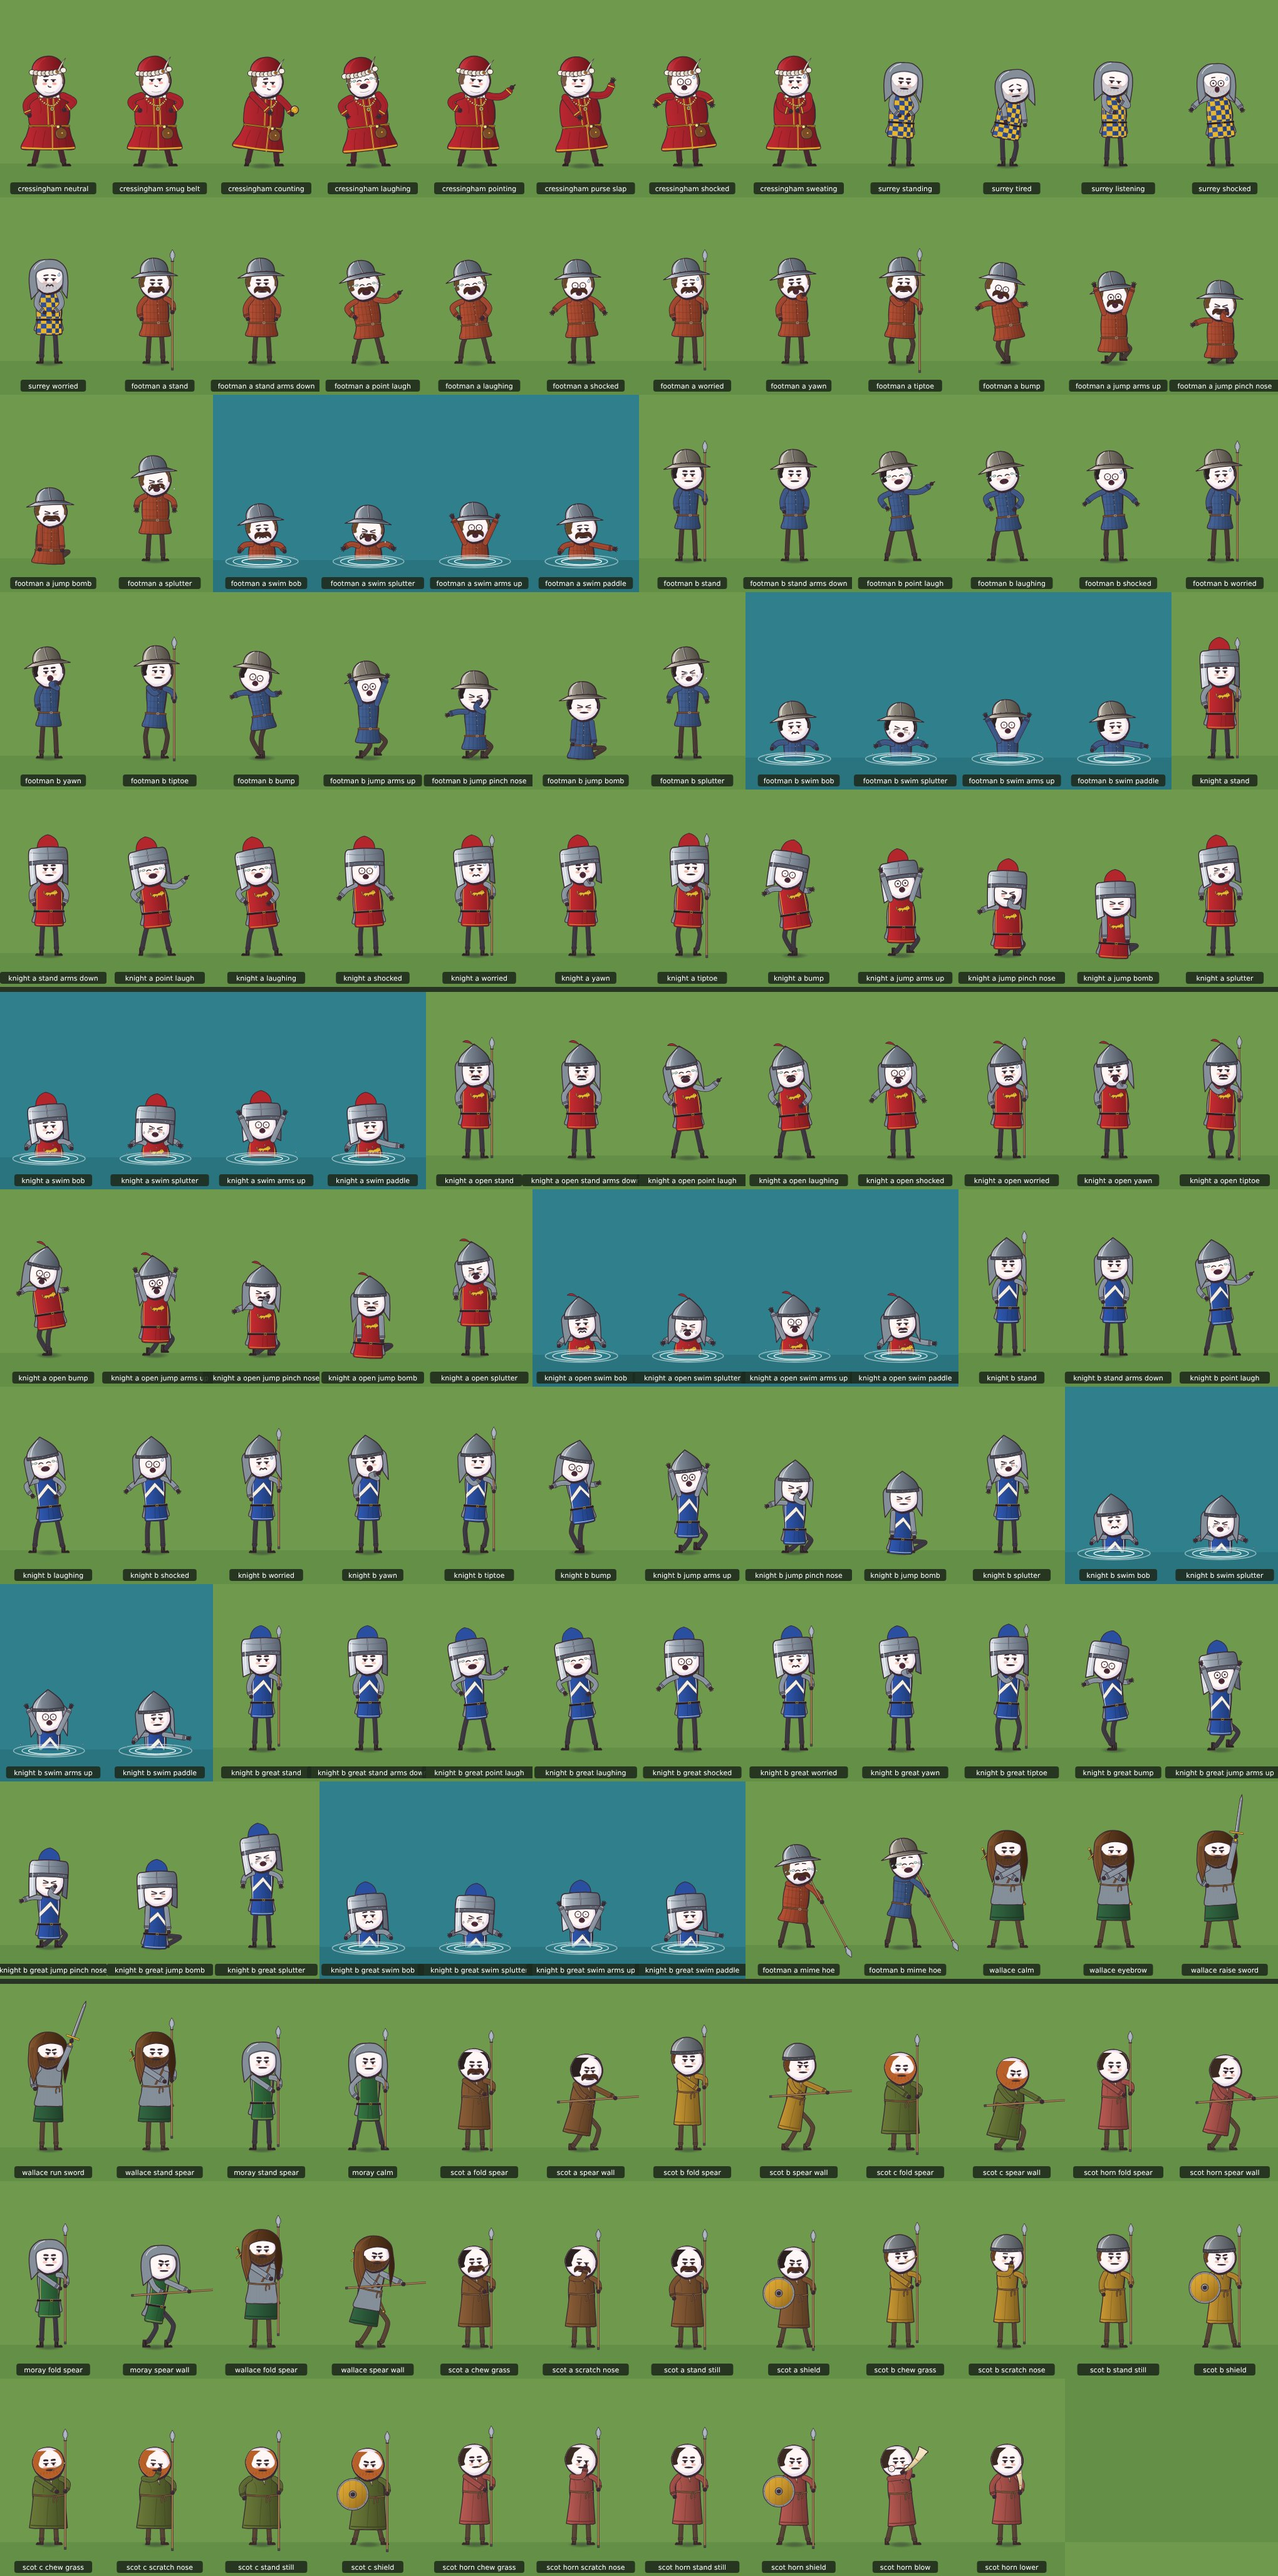
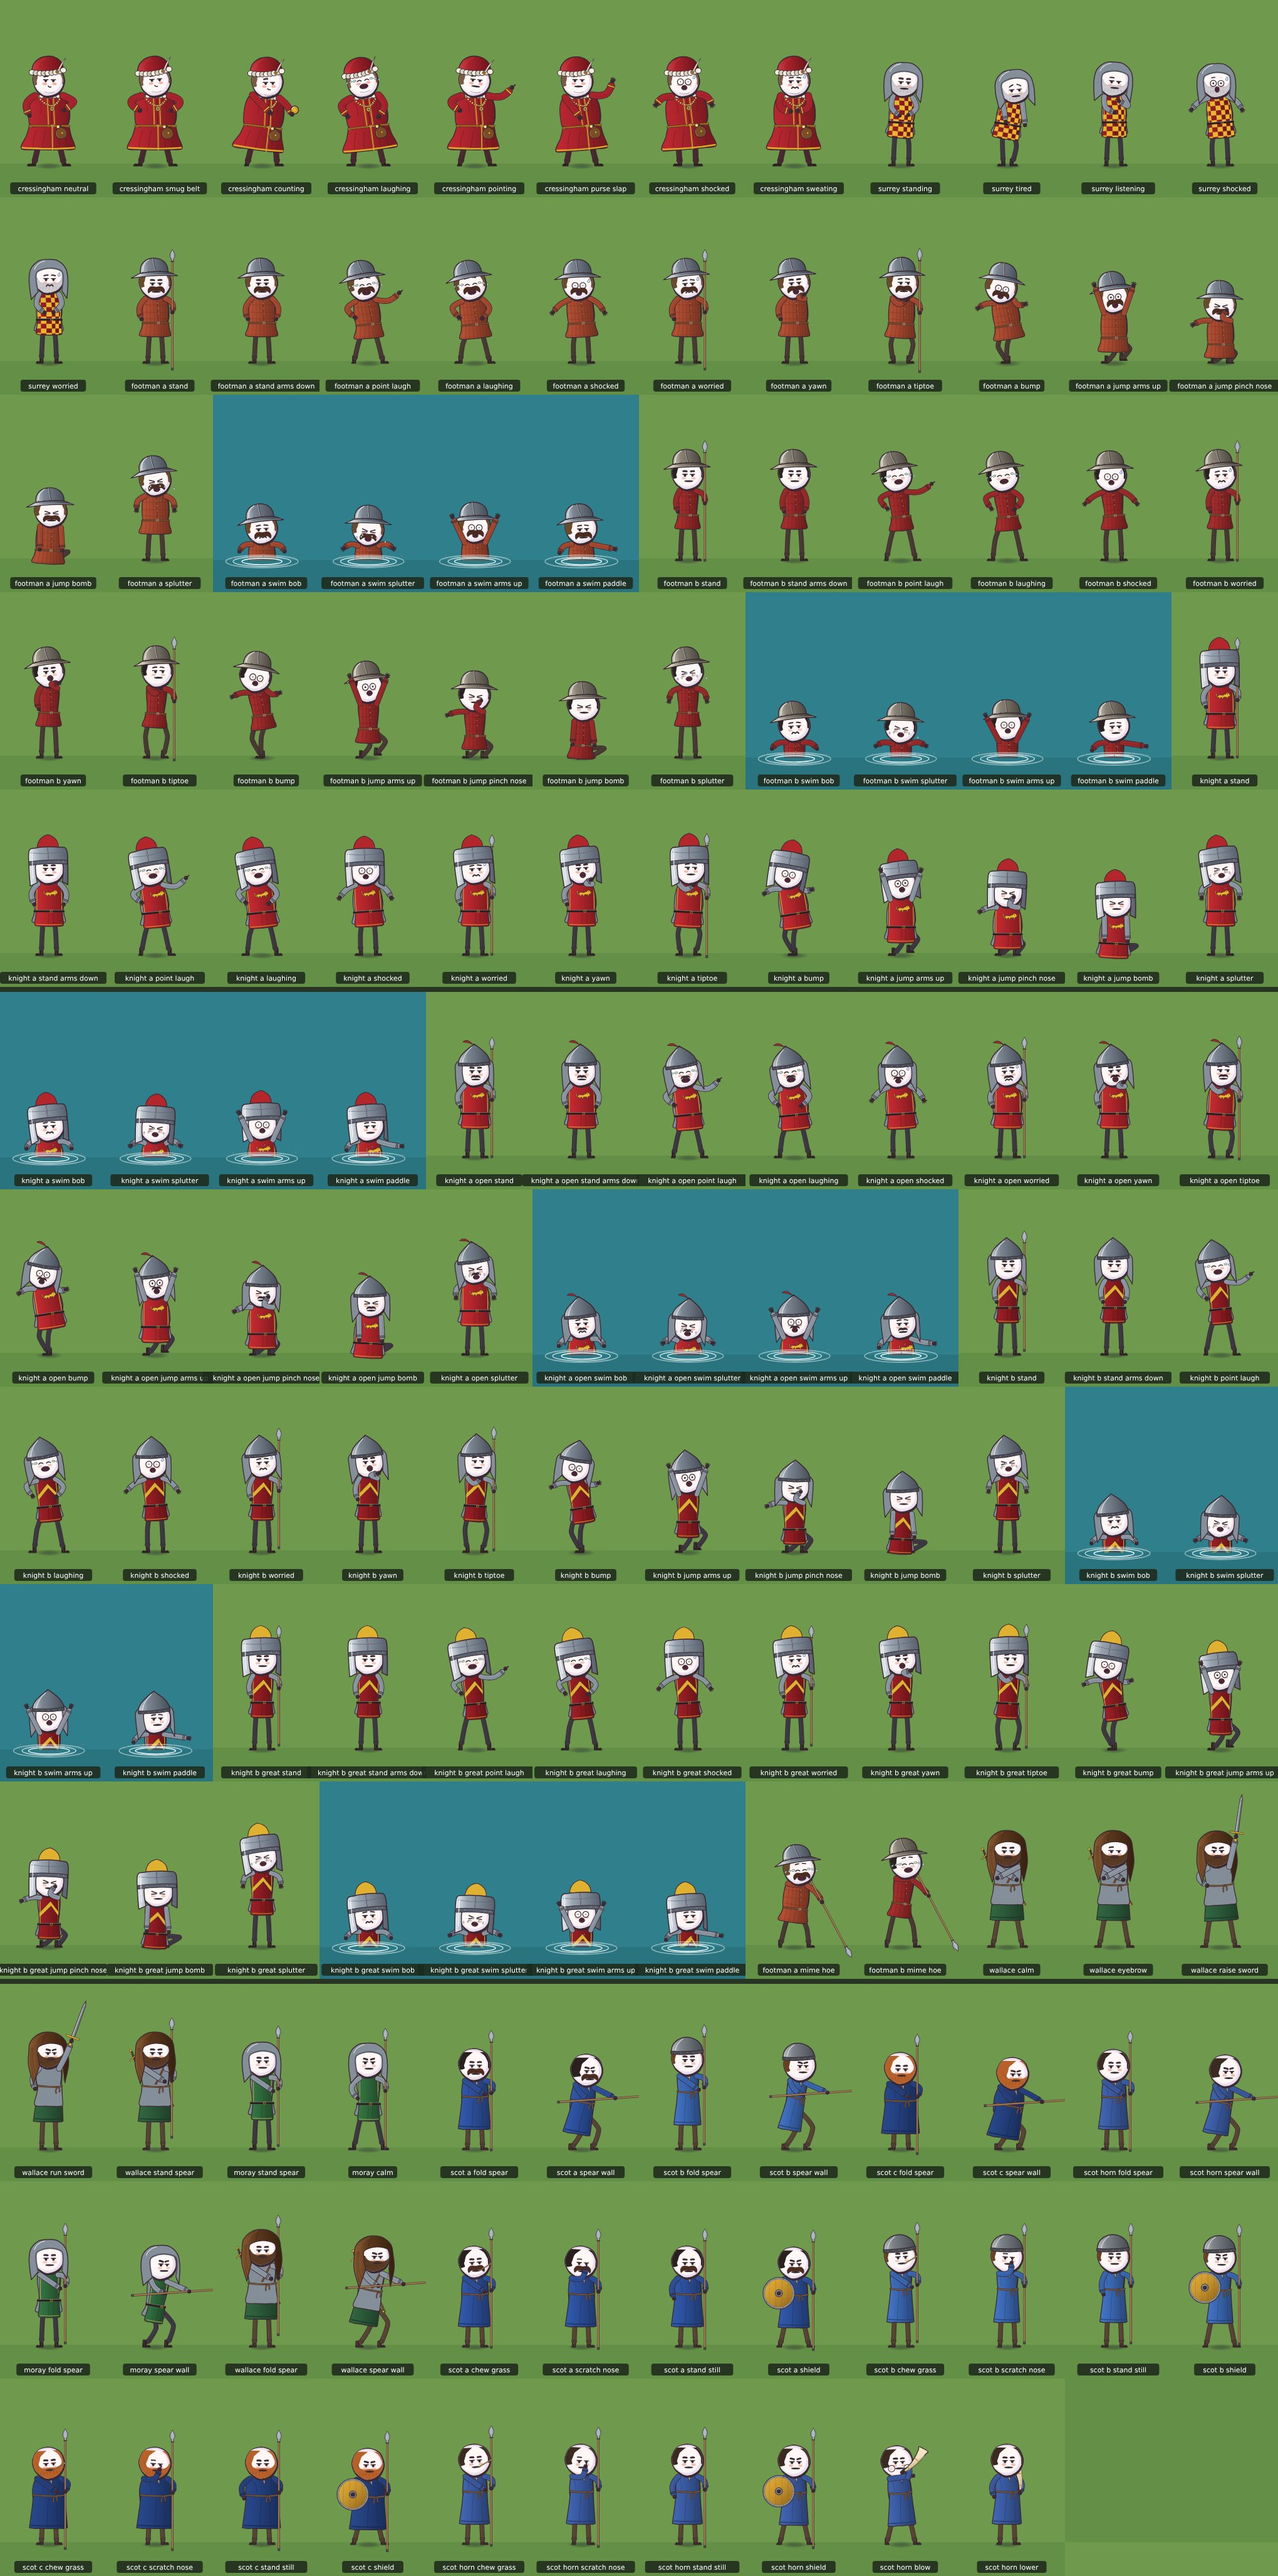
film21: cast21 colour story: all English crimson/gold (knight_b, footman_b, Surrey, plumes, caparisons), all Scots saltire blue; gate reports C/H1/J2/H2b
Claude-Session: https://claude.ai/code/session_017iwyCsej5sN2YnHCfQQb4Y

diff --git a/film/v3/cast21/cast21.py b/film/v3/cast21/cast21.py
@@ -783,10 +783,10 @@ def _norm(C, pose):
 _BOOT = dict(color="#3a2c22", cuff="#4a3a2c", h=0.20, toe=0.14)
 GREAT = dict(light="#e4e8ee", base="#9aa4b0", dark="#5a6270", shine="#ffffff")
 GREAT_RED = dict(GREAT, plume="#b3262c")
-GREAT_BLUE = dict(GREAT, plume="#2a4fa0")
+GREAT_BLUE = dict(GREAT, plume="#e0b030")   # 2026-11-20: English = crimson/gold only (blue = Scots)
 KETTLE = dict(light="#c8ccd2", base="#7c8692", dark="#464e58", shine="#f0f2f4")
 IRONCAP = dict(light="#b8bcc0", base="#7c8288", dark="#464c52", shine="#e8eaec")
-ENGLISH_RED, ENGLISH_BLUE = "#b3262c", "#2a4fa0"
+ENGLISH_RED, ENGLISH_BLUE = "#b3262c", "#8e1c22"   # ENGLISH_BLUE is now a dark crimson (name kept for compatibility)
 
 
 def _knight(seed, build, tw, th, leg, shoulder, sur, helm, hair, skin_cheek, beard=None, moustache=False, limb=0.062):
@@ -808,8 +808,8 @@ def _knight(seed, build, tw, th, leg, shoulder, sur, helm, hair, skin_cheek, bea
 
 
 SUR_LION = dict(pattern="lion", colors=dict(base=ENGLISH_RED, alt=GOLD["base"], trim=GOLD["base"], neck="#5d6672", belt="#2a1c18"))
-SUR_CHEV = dict(pattern="chevron", colors=dict(base=ENGLISH_BLUE, alt="#f2eee4", trim="#f2eee4", neck="#5d6672", belt="#2a1c18"))
-SUR_CHEQ = dict(pattern="chequy", tabard_w=0.92, colors=dict(base="#2f4f98", alt="#e8b52e", trim="#e8b52e", neck="#5d6672", belt="#2a1c18"))
+SUR_CHEV = dict(pattern="chevron", colors=dict(base=ENGLISH_BLUE, alt="#e0b030", trim="#e0b030", neck="#5d6672", belt="#2a1c18"))
+SUR_CHEQ = dict(pattern="chequy", tabard_w=0.92, colors=dict(base="#8e1c22", alt="#e8b52e", trim="#e8b52e", neck="#5d6672", belt="#2a1c18"))
 
 NEW_CAST21 = {
     # William Cressingham, the treasurer: stout, ruddy, clean-shaven double chin, crimson robe with gold trim, fur-trimmed cap,
@@ -864,7 +864,7 @@ def _footman(seed, build, tw, th, leg, shoulder, gamb, hat, hair, cheeks, mousta
     return d
 
 
-GAMBS = ("#a4482f", "#b8862e", "#3f5a8a", "#7a4a6a", "#6a6a3a")     # russet, ochre, indigo, plum, olive: mid-dark, none equals the teal
+GAMBS = ("#a4482f", "#b8862e", "#9a2a2a", "#7a2a2a", "#6a6a3a")   # 2026-11-20: indigo/plum -> crimsons (blue = Scots only)     # russet, ochre, indigo, plum, olive: mid-dark, none equals the teal
 NEW_CAST21.update({
     "footman_a": _footman(21.5, "regular", 0.92, 1.00, 1.18, (0.34, 0.47), GAMBS[0], KETTLE, dict(color="#6a4a2a", front=0.08, grow=0.18), "#e8907a",
                           moustache="bushy", limb=0.064),
@@ -894,7 +894,7 @@ def _scot(seed, build, tw, th, leg, shoulder, tunic, hat, hair, cheeks, moustach
 
 
 BARE = dict(light="#000000", base="#000000", dark="#000000")
-TUNICS = dict(brown="#7a5230", ochre="#b0842c", moss="#5e6b32", red="#a24f48")
+TUNICS = dict(brown="#2c4f9a", ochre="#3a66b0", moss="#24407e", red="#3a5aa0")   # 2026-11-20: Scots = saltire BLUE family (keys kept); English = crimson/gold
 NEW_CAST21.update({
     # Wallace: tall, strong, long brown hair, short beard, mail shirt over a dark-green tunic, a long sword on his back
     "wallace": dict(
@@ -1219,7 +1219,7 @@ def horse_pose(phase=0.0, mode="walk", cap="red", **kw):
 HORSE_KEYS = ("horse",)
 MOUNTED = {"%s_mtd" % n: n for n in ("knight_a", "knight_a_open", "knight_b", "knight_b_great", "surrey", "moray")}
 SPECIAL21 = HORSE_KEYS + ("helmet_float",) + tuple(MOUNTED)
-DEFAULT_CAP = {"knight_a": "red", "knight_a_open": "red", "knight_b": "blue", "knight_b_great": "blue", "surrey": "gold", "moray": "plain"}
+DEFAULT_CAP = {"knight_a": "red", "knight_a_open": "red", "knight_b": "gold", "knight_b_great": "gold", "surrey": "gold", "moray": "plain"}
 RIDER_KEYS = ("gait", "mode21", "horse21", "ride21")
 
 

diff --git a/film/film21/gate/sH1/QA_TECH.md b/film/film21/gate/sH1/QA_TECH.md
@@ -1,0 +1,14 @@
+# QA-tech sH1 (g1239-1345, 110 frames, 720x1280) - TAKE gate
+Checked: 6 fps frames, first/last 4 frames, full-size stills at n=70/77/84/95/109. Colour-only items waived. Rim light noted.
+
+## Verdict: FAIL
+
+OK: the ride behind 4-5 running Scots (spears forward, gorse past, shake) reads well, then the overtake and the swoop down to the bridge mouth; ends at P_NECK on n109 (g1347 incl. handles); the English are crimson; feet have shadows; no blur/DOF; no bloodshed; no mouths moving in a quote window (narration only).
+
+## Issues
+1. g~1316 (n~77, "ปิดหัวสะพาน" 43.78): NO readable slam. The Scots line at the bridge mouth is far and tiny (about 5 percent of frame height), a row of heads in brown/green/orange with horizontal spears, with no motion beat at n77-84 and no dust. The viewer cannot tell a wall was slammed. Fix: bring the camera 40 percent closer to the bridge mouth at g1316, and animate the spear wall (spears from vertical to horizontal and a body step forward) over 6 frames with a dust puff, in-frame at 25-40 percent of frame height.
+2. g1316-1345: no BLUE saltire banner is visible anywhere on the Scots group (only a few pennants at the far tents). The plan requires a group under a blue saltire. Scots also read earthy brown/green/orange with some red caps, not blue. Fix: plant a tall blue saltire banner (at least 15 percent of frame height) right at the bridge mouth and give the wall group blue tunics or blue shields.
+3. g1316-1345 (n77-109): the English on the causeway do not jump back. They stand still, sweat and look at the camera (n84-109). Fix: add a 6-8 frame jump-back (up 0.3 m and back 0.5 m), then the helmet wobble, starting at g1316.
+4. n~60-66 (g~1299-1305): the camera skims the terrain shelf; an orange ground slab fills the lower 55 percent of the frame for about 4 frames (6fps idx 12, 13). Reads as camera clipping into the ground. Fix: raise the path 1 m over the shelf edge.
+5. n95-109: the foreground English face sits at y~830-910 (head bottom crosses y880). Fix: lower the foreground knight or tilt the camera down so the head bottom stays above y880.
+6. Note: the final frames hold nearly still (n105-109), so P_NECK to the H2a crane-up start has a static look; fine if the crane starts on the next frame.

diff --git a/film/film21/gate/sC/QA_TECH.md b/film/film21/gate/sC/QA_TECH.md
@@ -1,0 +1,12 @@
+# QA-tech sC (g418-542, 124 frames, 720x1280) - TAKE gate
+Checked: 6 fps frames, first/last 4 frames, full-size stills at n=80/90/100/110/120 plus last frame. Colour-only items waived per director ruling. Rim light: known film-wide limitation, noted, not failed.
+
+## Verdict: FAIL
+
+OK: high fly along the bridge then descent past the STIRLING BRIDGE sign is readable; two horses side by side fill the deck; camera stays above the rail, no rail crosses a face (rails cut horse barding only); no blur/DOF; no clipped sprites; no floating; no blood; no mouths moving (neither knight speaks); join with sD1 is a planned CUT.
+
+## Issues
+1. g~499-541 (n81-123, narration 16.52-17.97): the belly-suck beat is NOT readable. The rider bodies are hidden behind the horse barding and the front rail; only sweat drops and a flat squint show. No visible belly squeeze or knee-rail brush as the plan says. Fix: lower/tilt the camera slightly or lift the camera 0.3 m so the torso is above the rail, and give the near knight an explicit belly deflate (torso scale x0.8 with a visible gap, tabard going slack) with the horses nudging the rails, timed at g~524 (the "pff" cue).
+2. g418-541 (all): the column pairs are mixed crimson and BLUE (blue-liveried knight on navy/white-striped barding in the lead pair; blue/yellow and white/blue pairs down the bridge). English must read crimson/gold; blue = Scots. At phone size the lead knight reads as a Scot riding with the English. Fix: recolour barding and tunic of the lead blue knight (and the blue pairs on the bridge) to English crimson/gold; keep Scots blue for Scots only.
+3. g~500-541: the descent ends with the lead knights in the upper-middle and the lower 45 percent of the frame filled by the foreground rail and bare sand. Minor framing waste. Fix: tilt up about 5 deg or lower the end position so the knights sit at 40-60 percent of frame height.
+4. Note (no fail): grey curved blade-shaped objects stand in the sky/horizon (g~480-541). Looks like smoke/spire; if it is meant as smoke, make it a soft plume.

diff --git a/film/film21/gate/sJ2/QA_TECH.md b/film/film21/gate/sJ2/QA_TECH.md
@@ -1,0 +1,13 @@
+# QA-tech sJ2 (g1709-1848, 140 frames, 720x1280) - TAKE gate
+Checked: 6 fps frames, first/last 4 frames, full-size stills. Colour-only items waived. Rim light noted.
+
+## Verdict: FAIL
+
+OK: whip-in at g1709-1714 lands on the riverbank; one soldier pinches his nose (6fps idx 6-11); jump arcs at 59.0-59.8 (idx 13-16) with moving bodies and splash crowns; swimmers splutter (squint, open mouths); helmets float (idx 25-27); the camera drops to water level; last frame g1847 is a crown; no blood, no blur/DOF, no mouths in quote windows (narration only); feet have contact shadows.
+
+## Issues
+1. g1715-1790 (idx 1-12): the "look at the blocked bridge" beat is not readable. No bridge and no Scots wall is in frame; the English stare at or past the camera. The viewer sees them looking at the water, but not why. Fix: aim the opening so the blocked bridge mouth with the blue-banner spear wall is in the far upper-right while the English turn their heads to it first (g1715-1735), then to the water, then to each other.
+2. g1709-1840 (all): the English group includes BLUE-clad figures (a blue tunic soldier with a straw helmet who pinches his nose, and a blue-white small soldier). Blue = Scots. Fix: recolour all of them to English crimson/gold.
+3. g~1830-1847 (idx 24-27, last 4 frames): "ตูม ตูม ตูม" crowns are tall white hex columns but they bury the swimmers; the last frame has the lower 55 percent as bare cyan water and the swimmers tiny at the horizon (about 4 percent of frame height). Fix: push in more and tilt the camera down 8 deg so the crown plus a spluttering head sit at 30-60 percent of frame height at g1847.
+4. g1709-1714 (first 3 frames): the whip-in opens on blurred empty ground/water with no character until n~6. Acceptable for a whip, but the whip ends at the English only at g1715; fix by landing the whip on the group by g1713.
+5. Note: grey curved spike shapes on the horizon (idx 0-20) look like unexplained slabs. Soft-plume them or delete.

diff --git a/film/film21/gate/sH2b/QA_TECH.md b/film/film21/gate/sH2b/QA_TECH.md
@@ -1,0 +1,12 @@
+# QA-tech sH2b (g1392-1519 + handles, 134 frames, 720x1280) - TAKE gate
+Checked: 6 fps frames, first/last 4 frames, full-size stills of the last frames. Colour-only items (dark dissolve-in, yellow cast) waived per director ruling. Rim light noted.
+
+## Verdict: PASS (with fixes recommended, none blocking)
+
+OK: P_TOP trap view holds about 1 s (idx 0-5) with the loop and the blue spear wall at the bridge mouth (the blue wall reads clearly); the swoop across the river over banners and tents is smooth and continuous; it lands on a MEDIUM shot of Cressingham (crimson) and Surrey (checkered) with jaws dropped, wide eyes and sweat drops; the final push (CU3) is about 1 s, the face is about 17 percent of frame height (under 35 percent), and no mouth moves in speech (static shocked O). Heads above y880, no blur/DOF, no bloodshed.
+
+## Issues
+1. g1389-1420 (idx 0-6): the "crimson English boxed in the loop" is a tiny brown-orange speckle block (about 2 percent of frame height) on yellow ground; it does not read as crimson at phone size. Fix: raise the English crimson saturation or tile size for the loop block, and put gold/crimson banners at the loop edge.
+2. g~1449-1460 (idx 12-14): a huge grey curved slab (blade/smoke shape) sweeps across the foreground tents for about 10 frames and hides part of the camp. Fix: remove or push it off the camera path.
+3. g1500-1519 (last 3-4 frames): Surrey is half cut by the right frame edge during the push. Acceptable for the push; fix by shifting the framing 5 percent right so he is only slightly cropped, or accept.
+4. g1440-1500 (idx 15-22): background soldiers around the English camp wear BLUE tunics and helmets (reads as Scots). Fix: recolour the camp soldiers to crimson/gold.
